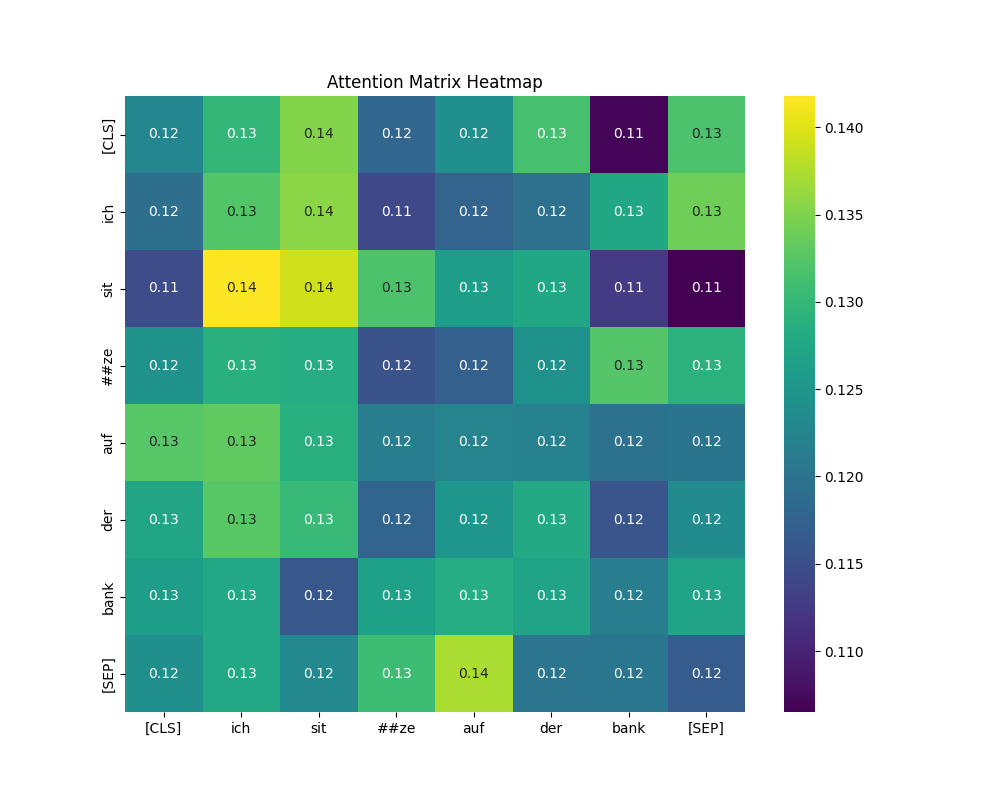
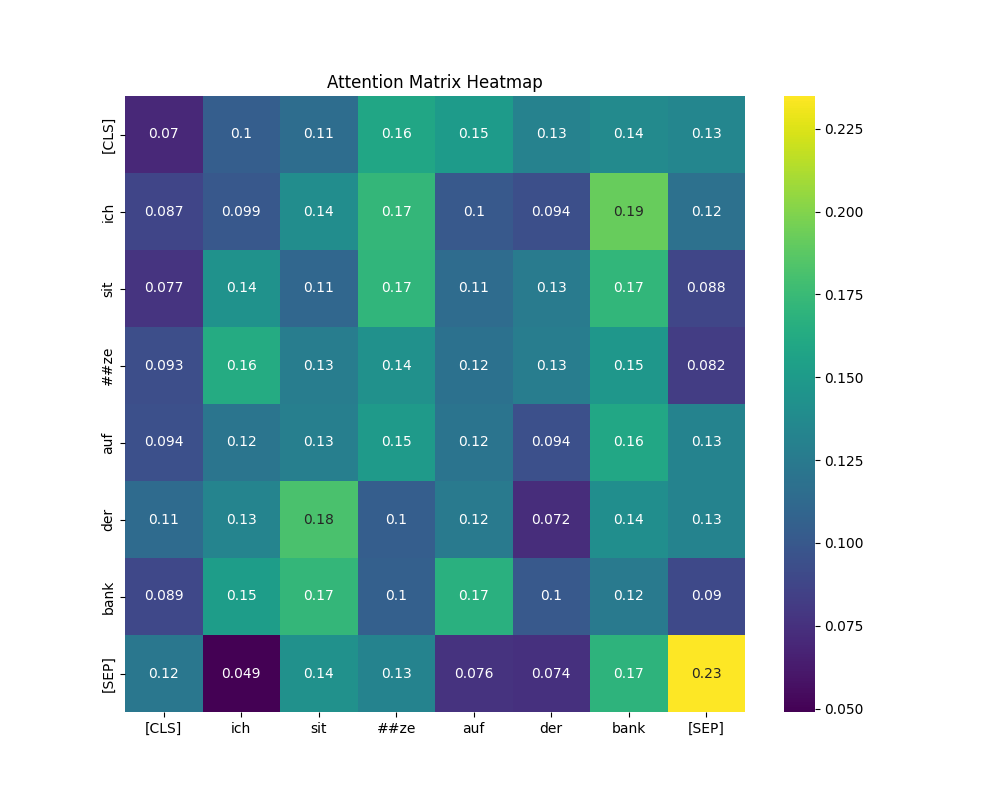
Verbessertes dmodel

diff --git a/Inhalt/04_Inhalt/attention.tex b/Inhalt/04_Inhalt/attention.tex
@@ -16,7 +16,6 @@ Jedes dieser Wörter ist ein eigener Token, der vor der Eingabe in den Attention
 \enquote{[SEP]} trennt verschiedene Teile dieser Eingabesequenz.
 Diese Tokens sehen für das Model wie folgt aus: [101, 22564, 4133, 4371, 21200, 4315, 2924, 102].
 Die Herausforderung für den Transformer besteht darin, aus dem Kontext der anderen Tokens zu erkennen, ob \enquote{Bank} eine Sitzbank oder das Finanzinstitut Bank bedeutet.
-
 Jeder Token bildet ein Schlüssel-Werte-Paar.
 Der korrespondierende Wert hinter einem Token ist ein Vektor, der die Bedeutung eines Tokens hinsichtlich mehrerer Dimensionen beschreibt.  
 Diese Vektoren sind aus Trainingsdaten des Transformer-Modells entstanden.
@@ -32,18 +31,20 @@ Wenn sich Tokens im Vektorraum nahe liegen, haben sie eher Gemeinsamkeiten im Ve
 Angenommen, es gäbe nur ein \( d_{\text{model}} = 2 \) für jeden Token, könnten diese zwei Dimensionen als Koordinaten genutzt werden, um Zusammenhänge visuell als Cluster in einem Koordinatensystem darzustellen.  
 Hier wären beispielsweise die Tokens \enquote{Hund} und \enquote{Katze} nah beieinander.
 
-Für das oben genannte Beispiel \enquote{Ich sitze auf der Bank} nehmen wir der Übersichtlichkeit halber ein \( d_{\text{model}} = 4 \).  
-So ergibt sich eine Embedding-Matrix $\mathbf{X}$ mit 5 Zeilen für 5 Tokens und 4 Spalten für jeweils 4 Dimensionen:
+Für das oben genannte Beispiel nehmen wir der Übersichtlichkeit halber ein \( d_{\text{model}} = 4 \).  
+So ergibt sich eine Embedding-Matrix $\mathbf{X}$ mit 8 Zeilen für 8 Tokens und 768 Spalten für jeweils 768 Dimensionen, die hier der Übersicht halber gekürzt wurden:
 
 \[
-\centering
 \mathbf{X} =
 \begin{bmatrix}
-0.4 & 0.8 & 1.5 & 1.6 \\
-3.2 & 0.4 & 0.7 & 0.2 \\
-0.6 & 0.9 & 1.2 & 0.5 \\
-2.1 & 0.5 & 2.0 & 0.2 \\
-0.7 & 2.4 & 0.1 & 0.9
+-0.2439 & 0.3586 & -0.2497 & -0.1406 & -0.2737 & \dots \\
+-0.7505 & 0.3196 & 0.5110 & -0.1967 & -0.5406 & \dots \\
+-0.2983 & -0.8887 & 0.8590 & -0.9268 & 0.2663 & \dots \\
+-0.7102 & -0.5600 & 0.2318 & 0.6554 & 0.6488 & \dots \\
+-0.5666 & 0.2437 & 0.3031 & -0.7440 & 0.0285 & \dots \\
+-0.7811 & -0.7468 & 0.1563 & 0.0889 & 0.2810 & \dots \\
+-0.3230 & -0.5498 & -0.2570 & -0.1799 & 0.4774 & \dots \\
+0.6908 & 0.2889 & -0.2512 & 0.4846 & -0.7107 & \dots \\
 \end{bmatrix}
 \]
 
@@ -68,16 +69,6 @@ Die drei Matrizen haben im Attention-Zyklus umgangssprachlich formuliert folgend
     \item \textbf{Key-Matrix (\(\mathbf{K}\))}: Welche Tokens im Kontext antworten am besten auf die Frage?
     \item \textbf{Value-Matrix (\(\mathbf{V}\))}: Erlernten Informationen über ein Token.
 \end{itemize}
-
-Im Beispiel könnten die jeweiligen Zeilen der Matrizen \(\mathbf{Q}\), \(\mathbf{K}\), \(\mathbf{V}\) für das Token \enquote{Bank} folgendermaßen aussehen:
-
-\[
-\begin{aligned}
-\math{Q}_{\text{Bank}} &= [1.0, 0.7, 0.9, 1.1], \quad 
-\math{K}_{\text{Bank}} &= [0.8, 0.6, 1.0, 0.9], \quad 
-\math{V}_{\text{Bank}} &= [0.9, 0.5, 0.7, 1.0]
-\end{aligned}
-\]
 
 \section{Berechnung und Einbeziehung von Attention-Scores}
 

diff --git a/Demo/Demo transformer/demo.py b/Demo/Demo transformer/demo.py
@@ -24,30 +24,30 @@ with torch.no_grad():
     outputs = model(**inputs)
     embeddings = outputs.last_hidden_state  # (1, seq_len, hidden_size)
 
-# 4. Embeddingmatrix anzeigen (Ausschnitt)
+# 4. Embeddingmatrix anzeigen (Dimensionen verkleinert)
 embedding_matrix = embeddings.squeeze(0).numpy()
-embedding_subset = embedding_matrix[:5, :5]  # Zeige nur einen Ausschnitt der Matrix
-print("Ausschnitt der Embedding-Matrix:")
-print(embedding_subset)
+embedding_reduced = embedding_matrix[:, :5]  # Reduziere die Dimensionen (z.B. nur die ersten 5 Dimensionen)
+print("Embedding-Matrix mit reduzierten Dimensionen:")
+print(embedding_reduced)
 
 # Visualisierung der Embeddingmatrix
 plt.figure(figsize=(8, 6))
-sns.heatmap(embedding_subset, annot=True, cmap='viridis')
-plt.title('Ausschnitt der Token Embedding Matrix')
+sns.heatmap(embedding_reduced, annot=True, cmap='viridis')
+plt.title('Token Embedding Matrix (reduzierte Dimensionen)')
 plt.xlabel('Embedding Dimensionen (Ausschnitt)')
-plt.ylabel('Tokens (Ausschnitt)')
-plt.savefig('token_embedding_matrix_subset.png')
+plt.ylabel('Tokens')
+plt.savefig('token_embedding_matrix_reduced.png')
 plt.close()
-print("Embeddingmatrix-Ausschnitt gespeichert als 'token_embedding_matrix_subset.png'")
+print("Embeddingmatrix gespeichert als 'token_embedding_matrix_reduced.png'")
 
 # 5. Query, Key, Value durch lineare Projektionen erzeugen
-W_Q = torch.nn.Linear(768, 64)
-W_K = torch.nn.Linear(768, 64)
-W_V = torch.nn.Linear(768, 64)
+W_Q = torch.nn.Linear(768, 768)
+W_K = torch.nn.Linear(768, 768)
+W_V = torch.nn.Linear(768, 768)
 
-Q = W_Q(embeddings)  # (1, seq_len, 64)
-K = W_K(embeddings)  # (1, seq_len, 64)
-V = W_V(embeddings)  # (1, seq_len, 64)
+Q = W_Q(embeddings)
+K = W_K(embeddings)
+V = W_V(embeddings)
 
 # 6. Attention Scores berechnen
 attention_scores = torch.matmul(Q, K.transpose(-2, -1)) / np.sqrt(64)
